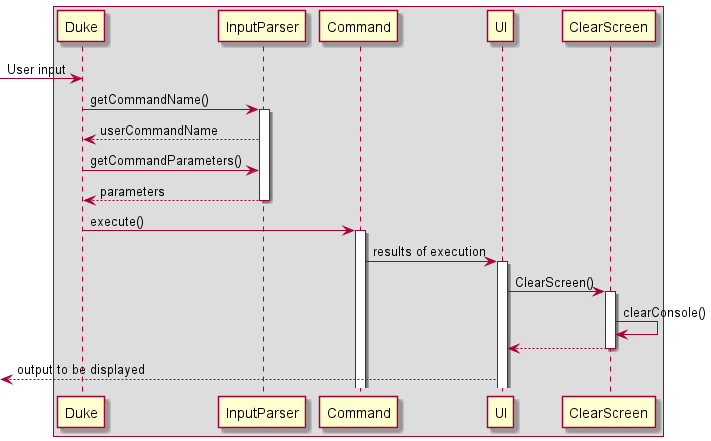
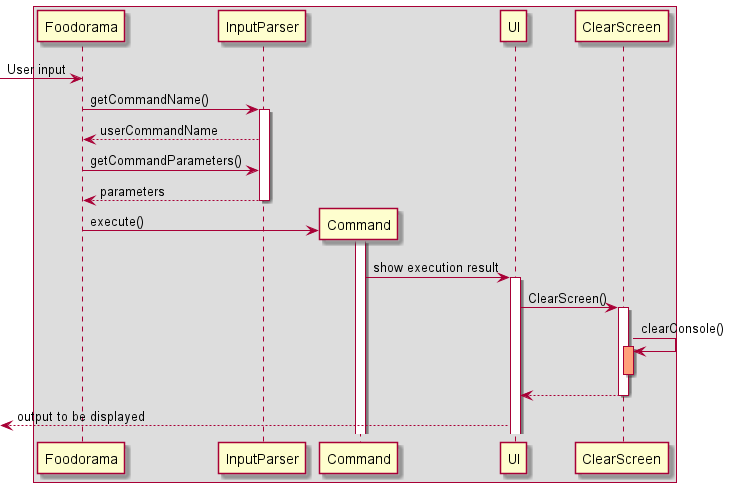
Fix DG review bugs

Changed region(s): [[0.0, 0.0, 0.9902, 1.0], [0.3404, 0.6485, 0.3713, 0.678]]

diff --git a/docs/DeveloperGuide.md b/docs/DeveloperGuide.md
@@ -82,7 +82,7 @@ Describes the step-by-step sequence from User Input to the Output.
 
 * User is greeted by welcome screen.
 * User begins typing inputs.
-* Inputs get parsed by InputParser returning the appropriate Command.
+* Inputs get parsed by InputParser returning the appropriate type of command and respective parameters.
 * Command gets executed and respective output gets displayed.
 * Once user is done using the application, he can send an exit message prompting a goodbye message.
 * Application exits.
@@ -153,7 +153,7 @@ under *'Data'* folder.
 The `Dish`, `DishList`, `Ingredient` and `IngredientList` classes are responsible for the handling and manipulation of
 the *Food-O-Rama* data.
 
-![](images/dish_ingredient.png)
+![](images/data_structures.png)
 
 * The `Dish` class contains the Dish's Name, its wastage and its constituents.
 * The `Ingredient` class contains the Ingredient's Name, the weight of Ingredient in storage, the weight of Ingredient
@@ -166,55 +166,25 @@ the *Food-O-Rama* data.
 
 ### User-Interface Component
 
-![](images/UiClass.png)
-
 The `Ui` Class is responsible for the printing of interactive messages whenever a user types an input. It handles print
 messages to the Command Line Interface from when the program loads, to after every input by the user and finally when
 the user exits the program.
 
-The interface of the program utilizes the ClearScreen class to clear the terminal after every user input through the
-built-in `ProcessBuilder` Java class. Such a feature allows greater readability and focus for the user as the terminal
-will not be cluttered with past commands.
-`Ui` will call `ClearScreen.clearConsole()` method to clear the terminal.
+The below class diagram shows the structure and relations of the Ui class in Foodorama.
 
-The ProcessBuilder class will send a respective command to the terminal depending on the Operating System of the user.
-The command it sends to the terminal is as follows:
+![](images/UiClass.png)
 
-* `cls` for Windows CMD Terminals.
-* `clear` for Linux/MacOS Terminals.
-
-`ClearConsole()` Code Snippet:
-
-```
- public static void clearConsole() {
-        try {
-            // Get current operating system
-            String getOS = System.getProperty("os.name");
-
-            if (getOS.contains("Windows")) {
-                // Try clear for Windows
-                // "/c" - execute string as command, "cls" -  Clear terminal
-                ProcessBuilder pb = new ProcessBuilder("cmd", "/c", "cls");
-                Process startProcess = pb.inheritIO().start();
-                startProcess.waitFor();
-            } else {
-                // Try clear for MacOS/Linux
-                // "clear" - Clear terminal
-                ProcessBuilder pb = new ProcessBuilder("clear");
-                Process startProcess = pb.inheritIO().start();
-                startProcess.waitFor();
-            }
-        } catch (Exception e) {
-            System.out.println(e);
-        }
-    }
-```
+For simplicity’s sake the ui class has been minimized into 3 components: 
+ * The strings containing the various messages
+ * Functions that get a string from UI to be used elsewhere (e.g. Exception classes getting error messages)
+ * Functions that print command outputs
 
 ### Exceptions
 
 The `FoodoramaException` class is responsible for handling errors such as unrecognised user commands and improper
-parameters. It does so by calling the `Ui` class to print error messages that prompt the User to type in correct
-Commands/Parameters.
+parameters. It does so by calling the `Ui` class to provide the error messages and throwing the exception 
+up to the highest level, that is the Foodorama class where it then gets caught and the message is printed with
+the exception.getMessage() method which is part of the base Exception class
 
 ### Command Abstraction
 
